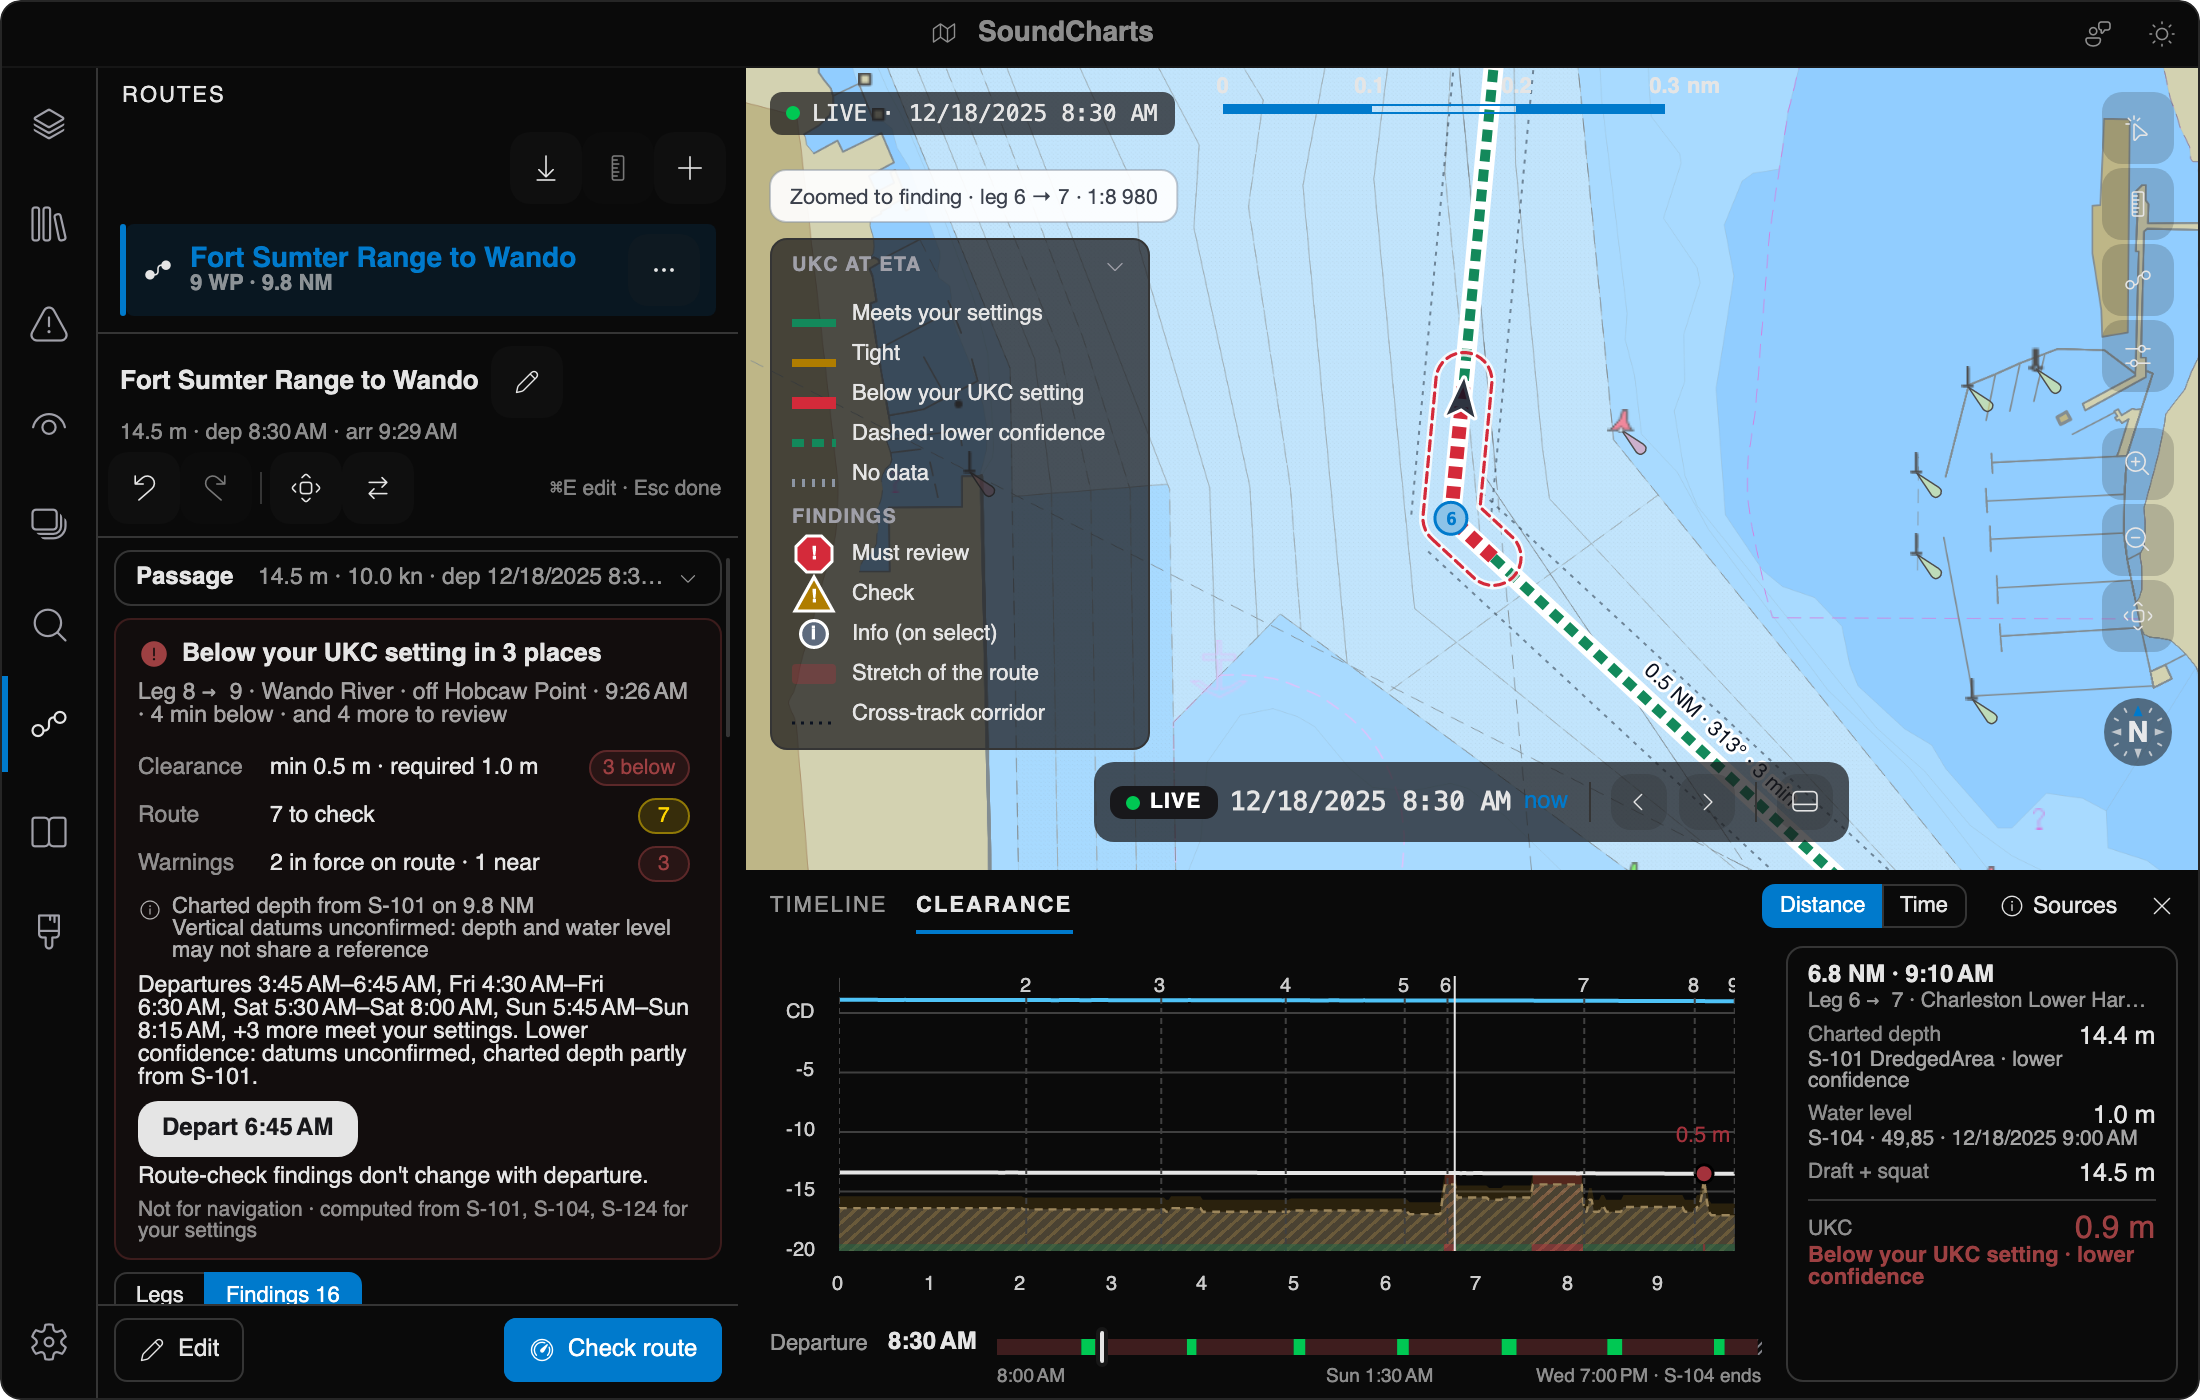
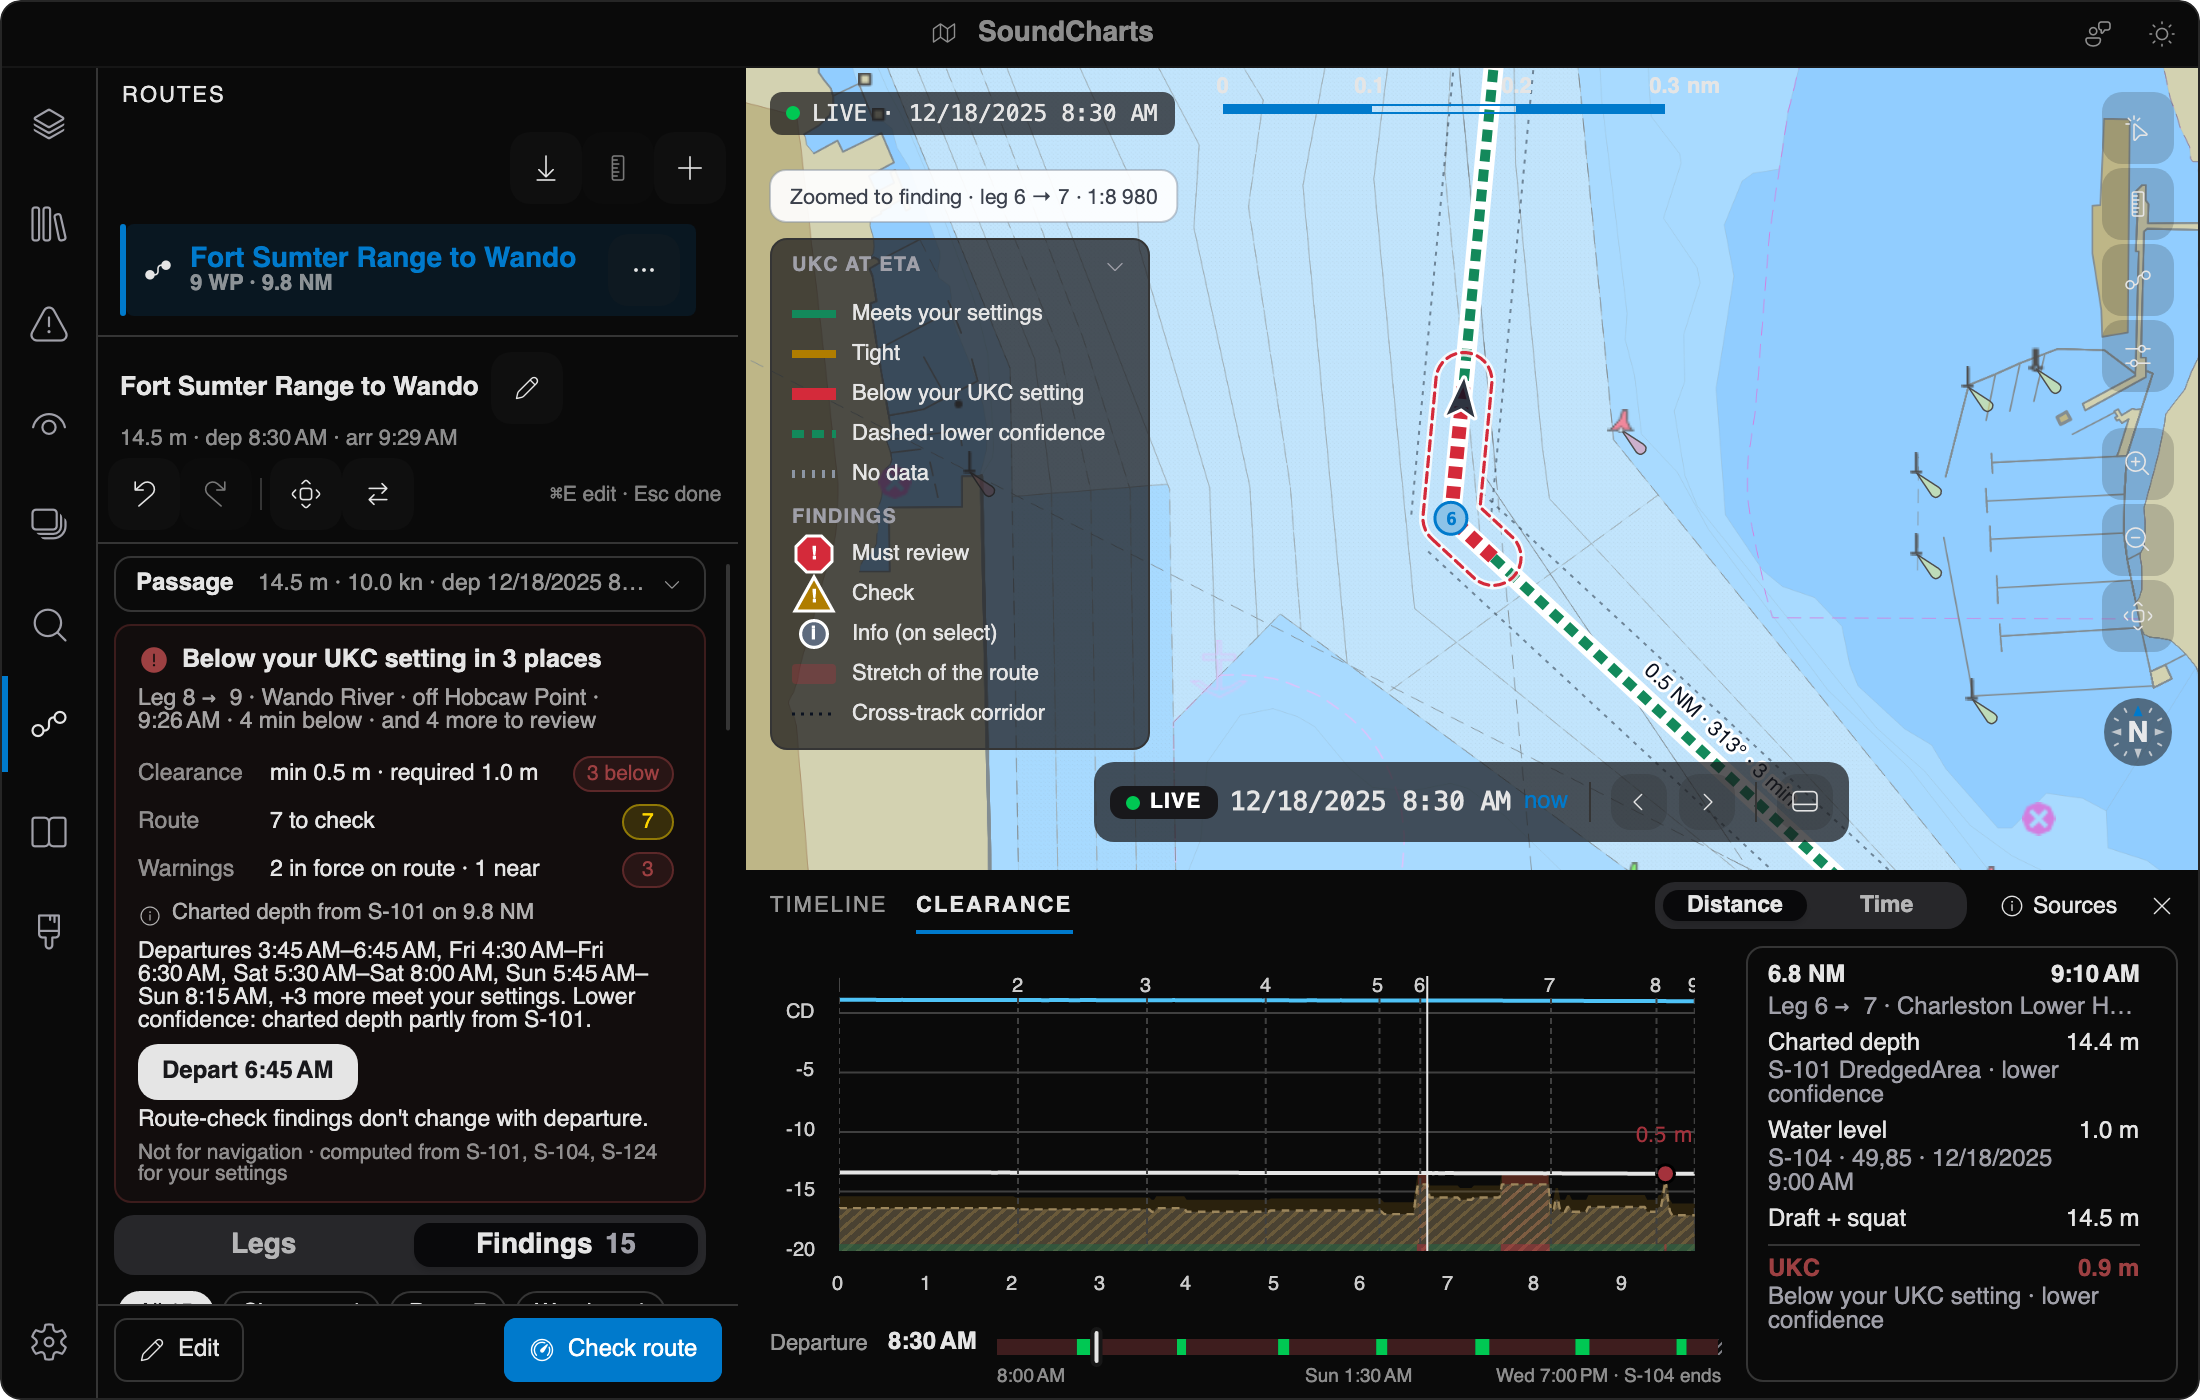
Site: recapture F10–F12 on main with the route-check fixes and UX refinements
Recaptured after merging main (4b5b6bd2), which brings #1029, #1030 and
#1031 plus the Check route UI work (segmented Legs/Findings and
Distance/Time, the Clearance readout and axis fixes). The verdict card no
longer reports unconfirmed vertical datums.

The Findings tab is a TabItem again, so the recipe selects it with
ui_select. Comments and shot-list notes now say the three fixes are in
main instead of pointing at branches and follow-ups.

diff --git a/site/capture/capture.cs b/site/capture/capture.cs
@@ -93,9 +93,8 @@ var passageBox = new Box(47.590, -122.500, 47.690, -122.320);
 // The Check route shots (F10–F12): a deep-draft ship from the Fort Sumter Range,
 // inside the jetties, up the federal channel to the Wando River Turning Basin
 // (Wando Welch Terminal). The turns are where the reaches' dredged-area
-// centrelines meet. Harbour-scale cells only: the band-4 cell under them charts
-// the upper harbour as one 0–1.8 m depth area, which the route check would take
-// as crossing the safety contour along every leg. NOAA's S-104 pilot tile
+// centrelines meet. Harbour-scale cells only: every view is framed at harbour
+// scale, where the band-4 cells add nothing. NOAA's S-104 pilot tile
 // 104US004SC1CO covers the whole route, so there is no tile seam on it.
 string[] charlestonEnc = ["US5CHSDD", "US5CHSDE", "US5CHSDF", "US5CHSED", "US5CHSEE", "US5CHSCE", "US5CHSCF"];
 (double Lat, double Lon)[] fortSumterToWando =
@@ -640,7 +639,7 @@ async Task<byte[]> CheckRoute(Viewer v, string palette)
 {
     await CheckedRoute(v, palette);
     await v.Panel("Routes");
-    await v.Call("ui_toggle", new() { ["id"] = "Routes.Check.FindingsTab" });
+    await v.Call("ui_select", new() { ["id"] = "Routes.Check.FindingsTab" });
     // The first below-UKC stretch (the list runs by distance), so the profile
     // cursor sits there and the Clearance readout shows the S-104 water level at
     // the ETA.

diff --git a/site/shot-list.md b/site/shot-list.md
@@ -222,7 +222,7 @@ as a desktop app.
   shades) next to a chart that shows the effect, e.g. a shallow harbour entrance.
 
 ### F10 · Check route (Passage section)
-- **Captured (2026-10-22)**, with the Light twin. A deep-draft passage into
+- **Captured (2026-10-23)**, with the Light twin. A deep-draft passage into
   Charleston Harbor: Fort Sumter Range (inside the jetties) up the federal
   channel to the Wando River Turning Basin, 9 waypoints and 9.8 NM. The turns are
   where the reaches' `DRGARE` centrelines meet. 14.5 m draft, 1 m required UKC,
@@ -231,17 +231,16 @@ as a desktop app.
 - **Data:** the NOAA harbour-scale cells `US5CHS*` (public domain) and NOAA's
   S-104 pilot tile `104US004SC1CO` (repo fixture, 2025-12-17 12Z run, public
   domain), which covers the whole route, so there is no tile seam on it.
-  Band-4 cells are left out: `US4SC1CO` charts the upper harbour as one 0–1.8 m
-  depth area, which the route check counts as crossing the safety contour along
-  every leg (filed as a follow-up). `US5CHSED` needs the pattern-clip fix on
-  branch `fix/pattern-clip-duplicate-rings`; without it the cell doesn't load.
+  Band-4 cells are left out because every view is at harbour scale. Three fixes
+  this scenario needed are in main: #1029 (`US5CHSED` didn't load), #1031
+  (route checks took the band-4 cell's 0–1.8 m harbour area over the harbour
+  cells) and #1030 (translated S-57 cells now state their sounding datum).
 - **State:** Routes panel on **Check route** showing "Below your UKC setting in 3
   places" (min 0.5 m) with the departure windows, the first below-UKC finding
   selected and zoomed to (the turn into Hog Island Reach, 1:9 000), the
   Clearance profile with the S-104 water level and the departure strip, and
-  the map legend open. Depth comes from the translated S-57 cells, which carry
-  no SoundingDatum feature, so the band is dashed (datums unconfirmed); also a
-  follow-up.
+  the map legend open. The band is dashed because the depth comes from the ENC
+  rather than S-102 (lower confidence by design).
 - **Warnings:** `SyntheticWarnings` in capture.cs writes four fictitious
   S-124 Ed 2.0 datasets (series SAMPLE, "Sample Hydrographic Office
   (fictitious)", numbered for the departure's year) to `.cache/synthetic/`,
@@ -254,7 +253,7 @@ as a desktop app.
   already shows Night, so F12 and the CI card are two wider minis instead.
 
 ### F11 · Navigational warnings on the route
-- **Captured (2026-10-22)**, with the Light twin. The F10 set-up, then the
+- **Captured (2026-10-23)**, with the Light twin. The F10 set-up, then the
   Navigational warnings panel in **On {route}** scope and SAMPLE 201/25
   selected, so Object Information opens its card with the "Crosses route ·
   leg 3 → 4" row. Framed on Rebellion Range around the dredging area (the
@@ -264,7 +263,7 @@ as a desktop app.
   `Dock.ObjectInformationEdge`.
 
 ### F12 · From warning to finding (small card)
-- **Captured (2026-10-22)**, with the Light twin. The F11 state, cropped to
+- **Captured (2026-10-23)**, with the Light twin. The F11 state, cropped to
   16:9 from a 3× window capture (it fills a half-width card): as wide as the
   Warning card, from its top (bounds from `ui_tree`, which line up with the
   capture), so the header, the route row and the classification all show.
